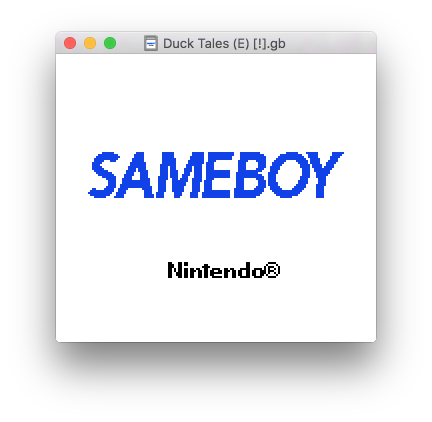
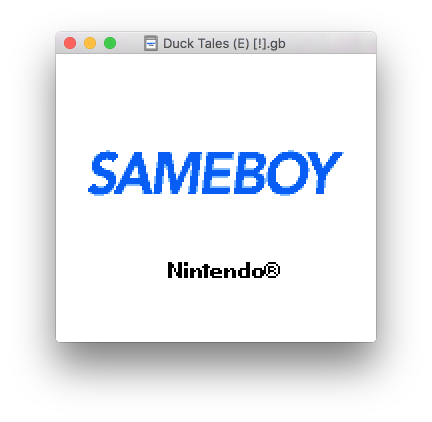
Release 0.13

Changed region(s): [[0.1806, 0.3389, 0.8125, 0.4929]]

diff --git a/_posts/2020-05-31-release-0.13.md b/_posts/2020-05-31-release-0.13.md
@@ -1,0 +1,81 @@
+---
+layout: download
+title:  SameBoy 0.13
+group: Downloads
+cocoa: https://github.com/LIJI32/SameBoy/releases/download/v0.13/sameboy_cocoa_v0.13.zip
+windows: https://github.com/LIJI32/SameBoy/releases/download/v0.13/sameboy_winsdl_v0.13.zip
+source: https://github.com/LIJI32/SameBoy/archive/v0.13.zip
+---
+This version is backwards compatible with save states from SameBoy 0.11.x and newer.
+
+### New/Improved Features
+* When emulating a Game Boy, you can now select out of 4 different palettes
+* New Monochrome LCD scaling filter
+* It is now possible to display Super Game Boy, or a built-in default border, even when emulating different models
+* Improvements to the built-in boot ROMs; the DMG boot ROM has a new animation, and the CGB boot ROM now features an anti-aliased logo
+* Gamma correction added to the CRT scaling filter
+* Add "Reduce Contrast" as an additional color correction mode
+* Optional more accurate frame blending mode, emulating the scanline-like appearance of actual Game Boy displays
+* The `next` debugger command now skips over HALT
+* The `registers` debugger command now display IME as well
+* Added volume control to the SDL frontend
+* The SDL frontend will now load and save "prefs.bin" relative to the binary if such file exists
+* The sidebar in the Cocoa debugger is now resizable and collapsable
+* The Cocoa frontend now supports cheats
+* Added support to ISX files, used by the official toolchain
+* Rewritten and improved controller support in Cocoa, featuring rumble, player LEDs, and analog controls for turbo and slow motion. Controller support:
+  * GameCube adapters (Both official and PC adapters): Full support, including automatic mappings, multiplayer, analog controls, and rumble
+    * Unofficial adapters in PC mode support analog rumble, as opposed to PWM binary rumble; the use of PC mode is recommended
+  * Generic "Twin USB" DualShock 2 PC adapter: Automatic mapping, multiplayer support
+  * Switch Pro Controller: Full support, including automatic mappings, rumble, and player LEDs; via both USB and Bluetooth
+  * DualShock 3: Full support, including automatic mappings, rumble, player LEDs, and analog controls; via both USB and Bluetooth
+    * Some Macs seem to be unable to communicate LED and rumble information to DualShock 3 controllers; the use of USB for this controller is recommended
+  * Generic controllers: Basic functionality, may need to be manually remapped in settings
+  * Support for more controllers will come in future releases
+* Optionally add rumble support to all games, even those without a Rumble Pak, in all frontends
+  * SDL rumble support varies between operating systems and SDL versions
+* The debugger now allows more than one symbol at the same address
+* Added the `softbreak` debugger command to enable/disable software breakpoints (`ld b, b`)
+* The SDL debugger now always outputs ">" when it's waiting for an input
+* The SDL debugger allows the use of the magic binary sequence `"\x03\x0a"` to break the debugger from stdin in async-capable platforms
+
+### Accuracy Improvements/Fixes
+* Fixed a regression bug that made the first frame blank instead of repeated on the Game Boy Color
+* Fixed an APU sequencer edge case
+* Fixed a bug affecting HDMA timing
+* Color correction is now more accurate
+* Correct emulation of the OPRI register
+* More accurate emulation of STOP mode
+* More accurate emulation of LCDC write conflicts; although individual units may behave differently
+* Emulation of cases where PPU object fetched are aborted in the middle
+* Correct emulation of changing object height during fetch
+* More accurate emulation of the PPU fetcher's timings
+* Accurate emulation of SCX's upper 5 bits changing mid-line
+* Rewritten window implementation, which is much more accurate now, including the various timing scenarios
+* More accurate emulation of background FIFO push timings
+* Emulate some of the cases where the PPU and LCD desync
+* Accurate emulation of tilemap advance timings
+* Implement a missing SGB command (ATTR_CHR)
+* More accurate MBC2 emulation
+* More accurate MBC3 emulation and proper MBC30 support
+* Correct emulation of PCM12 and PCM34 reads when emulating CGB-C
+* Improved HuC-1 emulation
+* HuC-3 emulation, including RTC and alarm clock emulation
+  * Alarm clock emulation is only supported in the Cocoa frontend
+* Partial emulation of glitched VRAM reads that happen right after mode 3
+
+### Bug Fixes
+* Fixed a bug with scrolling menus in the SDL frontend when emulating a Super Game Boy
+* Fixed cases where the Cocoa frontend froze
+* Fixed a bug where an incorrect minimum window size was enforced on the Cocoa frontend
+* Assignments to 16-bit expression in the debugger is now working correctly
+* Fixed operator priorities in the debugger
+* Fixed a debugger parsing bug
+* Fixed compatibility with older macOS versions in the Cocoa version, restoring support for 10.9 (Mavericks) and newer
+
+### Misc Internal Changes
+* Added per-commit automatic GitHub builds, with basic sanity tests
+* When building the SDL frontend on macOS, the Brew version of SDL2 is used
+* Fixed various compilation errors with GCC
+* Make the libretro frontend compile without warnings
+* HuC-1 and HuC-3 IR are emulated now, but this is not currently supported in any frontend
